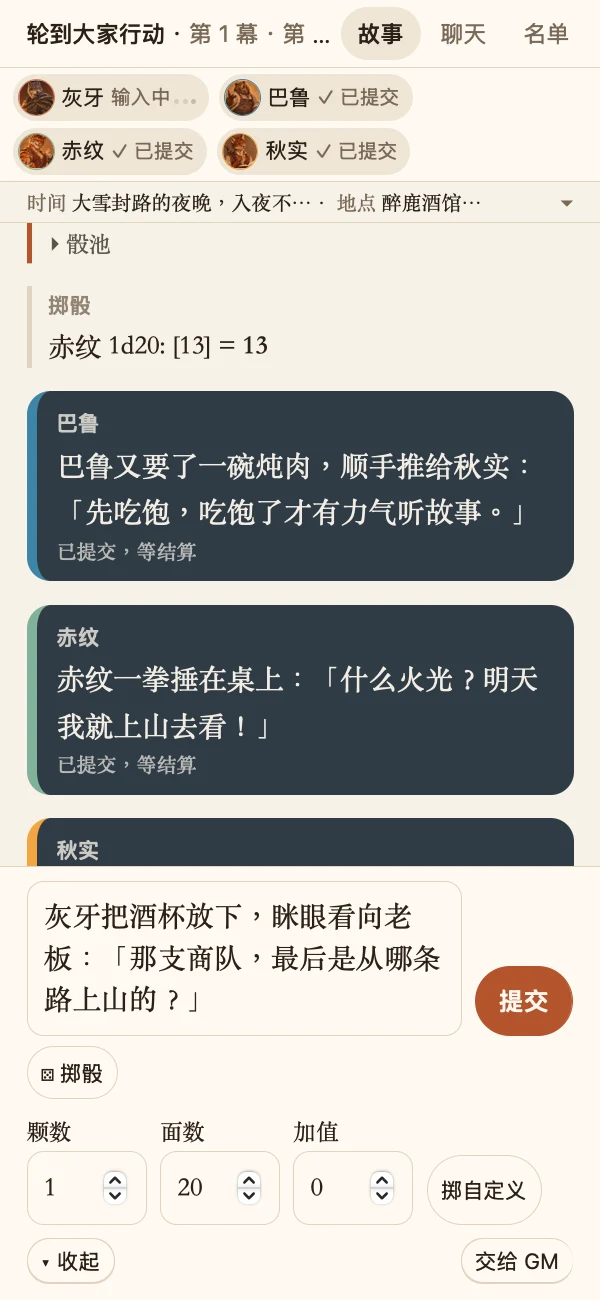
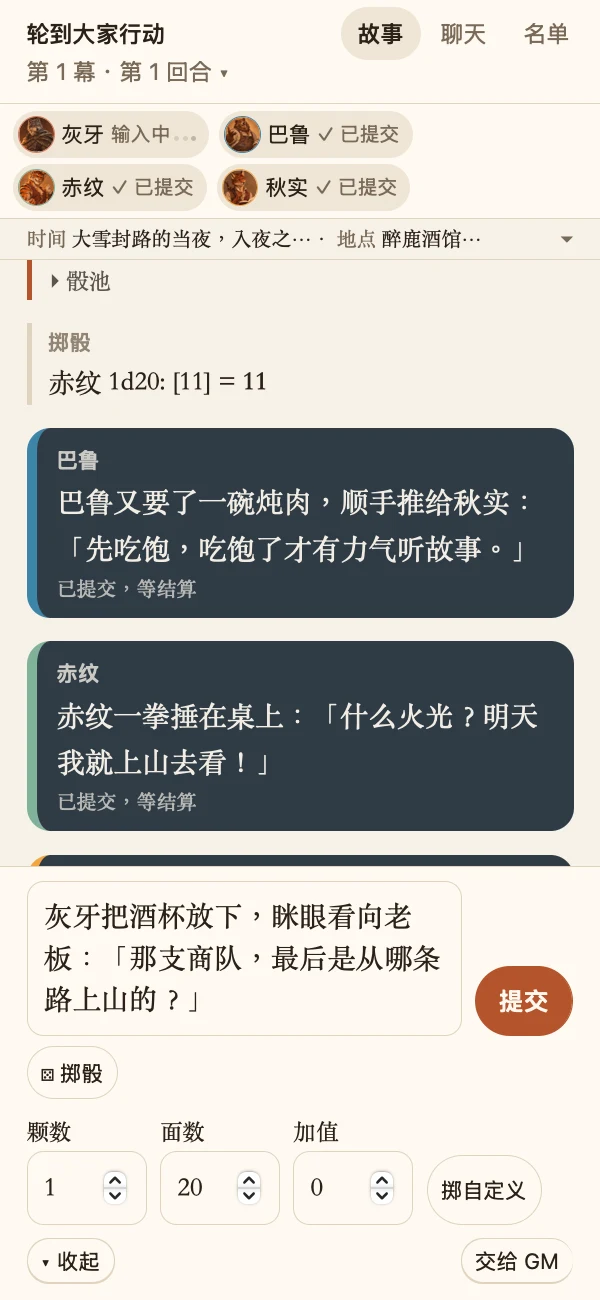
release-9: 版本 0.5.4、CHANGELOG 繁中＋英文、README 補五本規則書與四本新書授權、手機端與說明書「先攻」改「行動順序」、重拍 6 組過時截圖（verify 18 步通過、截圖主線親看；尚未部署與打包）

Changed region(s): [[0.0, 0.0, 0.96, 0.6769], [0.93, 0.1538, 0.96, 0.1846]]

diff --git a/party/src/i18n/ru.ts b/party/src/i18n/ru.ts
@@ -34,7 +34,7 @@ export const ru: PartyMessages = {
   statusClues: "Зацепки",
   statusHp: "ОЗ",
   statusConditions: "Состояния",
-  statusInitiative: "Инициатива",
+  statusInitiative: "Порядок ходов",
   statusFoes: "Враги",
   statusTurn: "Ход: {name}",
   statusInCombat: "Идёт бой",

diff --git a/party/src/i18n/ja.ts b/party/src/i18n/ja.ts
@@ -35,7 +35,7 @@ export const ja: PartyMessages = {
   statusClues: "手がかり",
   statusHp: "HP",
   statusConditions: "状態異常",
-  statusInitiative: "イニシアチブ",
+  statusInitiative: "行動順",
   statusFoes: "敵",
   statusTurn: "{name} の番",
   statusInCombat: "戦闘中",

diff --git a/party/src/i18n/pt-BR.ts b/party/src/i18n/pt-BR.ts
@@ -35,7 +35,7 @@ export const ptBR: PartyMessages = {
   statusClues: "Pistas",
   statusHp: "PV",
   statusConditions: "Condições",
-  statusInitiative: "Iniciativa",
+  statusInitiative: "Ordem dos turnos",
   statusFoes: "Inimigos",
   statusTurn: "Vez de {name}",
   statusInCombat: "Em combate",

diff --git a/party/src/i18n/es.ts b/party/src/i18n/es.ts
@@ -35,7 +35,7 @@ export const es: PartyMessages = {
   statusClues: "Pistas",
   statusHp: "PV",
   statusConditions: "Condiciones",
-  statusInitiative: "Iniciativa",
+  statusInitiative: "Orden de turnos",
   statusFoes: "Enemigos",
   statusTurn: "Turno de {name}",
   statusInCombat: "En combate",

diff --git a/party/src/i18n/fr.ts b/party/src/i18n/fr.ts
@@ -35,7 +35,7 @@ export const fr: PartyMessages = {
   statusClues: "Indices",
   statusHp: "PV",
   statusConditions: "États",
-  statusInitiative: "Initiative",
+  statusInitiative: "Ordre des tours",
   statusFoes: "Ennemis",
   statusTurn: "Au tour de {name}",
   statusInCombat: "En combat",

diff --git a/party/src/i18n/de.ts b/party/src/i18n/de.ts
@@ -35,7 +35,7 @@ export const de: PartyMessages = {
   statusClues: "Hinweise",
   statusHp: "TP",
   statusConditions: "Zustände",
-  statusInitiative: "Initiative",
+  statusInitiative: "Zugreihenfolge",
   statusFoes: "Gegner",
   statusTurn: "{name} ist dran",
   statusInCombat: "Im Kampf",

diff --git a/party/src/i18n/zh-CN.ts b/party/src/i18n/zh-CN.ts
@@ -102,7 +102,7 @@ export const zhCN: PartyMessages = {
   statusClues: "线索",
   statusHp: "HP",
   statusConditions: "状态效果",
-  statusInitiative: "先攻",
+  statusInitiative: "行动顺序",
   statusFoes: "敌人",
   statusTurn: "轮到 {name}",
   statusInCombat: "战斗中",

diff --git a/party/src/i18n/ko.ts b/party/src/i18n/ko.ts
@@ -35,7 +35,7 @@ export const ko: PartyMessages = {
   statusClues: "단서",
   statusHp: "HP",
   statusConditions: "상태 이상",
-  statusInitiative: "우선권",
+  statusInitiative: "행동 순서",
   statusFoes: "적",
   statusTurn: "{name} 차례",
   statusInCombat: "전투 중",

diff --git a/party/src/i18n/en.ts b/party/src/i18n/en.ts
@@ -103,7 +103,7 @@ export const en: PartyMessages = {
   statusClues: "Clues",
   statusHp: "HP",
   statusConditions: "Conditions",
-  statusInitiative: "Initiative",
+  statusInitiative: "Turn order",
   statusFoes: "Foes",
   statusTurn: "{name}'s turn",
   statusInCombat: "In combat",

diff --git a/party/src/i18n/zh-TW.ts b/party/src/i18n/zh-TW.ts
@@ -103,7 +103,7 @@ export const zhTW = {
   statusClues: "線索",
   statusHp: "HP",
   statusConditions: "狀態效果",
-  statusInitiative: "先攻",
+  statusInitiative: "行動順序",
   statusFoes: "敵人",
   statusTurn: "輪到 {name}",
   statusInCombat: "戰鬥中",

diff --git a/CHANGELOG.md b/CHANGELOG.md
@@ -4,6 +4,171 @@
 
 ## [Unreleased]
 
+## [0.5.4] — 2026-11-15
+
+
+### 這一版有什麼
+跑團（到桌設定開「擲骰」才有）：
+- **內建規則書變五本**：除了原本的 D&D 第五版，新增 Dungeon World、Cairn、Basic Roleplaying（BRP）和 Pathfinder 第二版（Remaster）。一桌用一套，可以一鍵換成另一套。
+- **加了規則書，第一回合就照那套玩**：怎麼擲骰、怎麼算成敗、開戰誰先動，GM 一開始就照你選的那套裁決，不用等你先提到規則名詞。
+- **戰鬥面板更好讀**：HP 旁的提醒換到下一行，不再擠成一直排。手改 HP 要寫成「現值/上限」，格式不對會當場提醒，不會存進去。HP 歸 0 的敵人會自動移出行動順序。
+- **「先攻」改叫「行動順序」**，十種語言一起改。
+- **骰子提醒更準**：GM 照點數高低排著寫骰子時不再誤報「跳號」；骰池收起來時也看得到有幾顆對不上；骰鈕不會停在 GM 回頭提到的舊算式。
+- 規則書不再被不相干的句子帶出來（例如「毒舌」不會帶出中毒規則）。
+
+視覺小說：
+- **Grok 也能畫立繪**：有 Grok 訂閱的話，可以選它當立繪來源。
+- **自己指定畫風**：立繪和背景可以填「這張桌的畫風」，例如像素風。
+- **AI 不肯畫時會說清楚**：會明講哪幾張被拒絕，讓你選改畫風、「這次不帶我的畫風重試」或換立繪來源；不再自己默默重試。
+- **立繪邊緣更乾淨**：深色背景上，髮梢不再有一圈淺色的邊。
+- **開桌更穩**：AI 沒寫出開場白時不會開出一張空桌，會停在原地讓你再試一次。開桌精靈的開始鈕固定在畫面底部。
+- **標題畫面固定播主題曲**；配樂不再換得那麼頻繁。
+- **匯出作品包**：還沒走到結局的桌，按匯出會馬上告訴你還不能匯出；作品包會帶上主角的一句話介紹。
+- 遊戲選單的「更多…」可以直接打開劇本，回來時立繪不會消失；劇本改到一半切回去會先問你要不要存。
+- 對白和旁白裡的 `<br>` 會正常換行，不再照字面顯示。
+
+多人房間：
+- **手機打到一半不怕切頁**：在故事頁打字打到一半，切去聊天或名單再回來，字還在。
+- **回合數好懂了**：現在顯示「這一幕的第幾回合」，房主收回上一回合或讓 GM 插話都不會跳號；手機標頭的回合數不再被截掉。
+- **擲骰鈕只給被點名的人**：GM 點名別的角色擲骰時，你的骰鈕不會變成那一擲。
+- GM 旁白裡的換行在手機上正常顯示。
+- 電腦上的房主：「⋯」選單可以按 Esc 或點旁邊收起，不再蓋住「換幕」；GM 旁白選單不再壓到左邊的角色欄。
+- 規則指南的「加入」鈕直接帶你到世界設定。
+
+其他：
+- **跳過開場白可以回頭選**：匯入卡片時跳過了開場白，只要還沒開始玩，對話區有「選擇開場白」可以補選。
+- AI 幫忙整理過的卡（重構桌），右側欄不再重複列出「地點／在場人物」。
+- 法、德、西、葡四種語言的「更新」「重試」按鈕改成當地慣用的說法；英文等五種語言的張數會分單複數。
+- 一項安全性更新。
+
+### 下載
+[![網頁版-點開就玩](https://img.shields.io/badge/網頁版-點開就玩-E8A33D?style=for-the-badge)](https://table-tavern.pages.dev)
[1 lines of base64/hex data omitted]
+[![下載-macOS](https://img.shields.io/badge/下載-macOS-000000?style=for-the-badge&logo=apple&logoColor=white)](https://github.com/TaoGongSun/Table-Tavern/releases/download/v0.5.4/TableTavern-macOS.dmg)
+
+- 網頁版：<https://table-tavern.pages.dev>，點開就玩，不用安裝。
+- [Windows（64 位元）](https://github.com/TaoGongSun/Table-Tavern/releases/download/v0.5.4/TableTavern-Windows-Setup.exe)
+- [macOS（僅 Apple Silicon，M 系列晶片；不支援 Intel Mac）](https://github.com/TaoGongSun/Table-Tavern/releases/download/v0.5.4/TableTavern-macOS.dmg)
+- 下方其他檔案是 App 內更新用的，不用下載。
+
+### 你的資料去哪裡
+- **存在你電腦**：
+  - 桌、角色卡、對話紀錄是「文件/TableTavern/」裡的純文字檔。
+  - 設定與 API 金鑰存在系統的應用程式設定資料夾（未加密的設定檔；macOS 上限本人讀寫）。
+  - 轉換格式前的桌備份放在「文件/TableTavern/」裡的隱藏資料夾；更新下載的安裝包存在本機 App 資料夾。
+  - 透過 Codex（ChatGPT 的命令列工具）、Gemini 命令列工具玩時，對話紀錄存在 App 自己的設定資料夾（Grok 本來就是），不混進你在終端機的紀錄；登入沿用你終端機那份。
+- **對話送去哪**：從你的電腦直接送到你選的 AI 服務——OpenRouter、你自己填的 API 網址，或你安裝的官方命令列工具（由那支工具送到該公司）。送出的內容包含角色卡、世界設定、世界書條目、對話紀錄和你的輸入。AI 服務怎麼處理這些資料，以該服務的條款為準。
+- **OpenRouter**：授權在瀏覽器的 openrouter.ai 完成，換到的金鑰只存本機。App 也會向 OpenRouter 查模型清單、排行與金鑰剩餘額度。
+- **矽基流動（簡體中文介面的預設）**：金鑰只存本機；對話直接送到 api.siliconflow.cn。只用它的免費模型清單，不會自動換到付費模型。
+- **生圖**：送到你選的生圖來源（OpenRouter、你自己填的 API 網址，或命令列工具）；回傳網址的圖從該網址下載。
+- **視覺小說的音樂與音效**：背景音樂的曲目清單與音檔從 incompetech.com 下載；填了 Freesound 金鑰時，GM 寫的音效描述會送到 freesound.org 搜尋並下載音效。下載後存在這張桌裡。這些網站會看到你的 IP。
+- **檢查更新**：開 App 時與每 24 小時向 GitHub 查一次新版，下載更新與回退檔也從 GitHub。GitHub 會看到你的 IP。設定裡可以關掉自動檢查。
+- **卡片自帶的介面**：有些卡的介面會從卡作者指定的網站載入字型、圖片或程式（例如 jsDelivr），那些網站會看到你的 IP。卡片介面在隔離框裡執行，裡面的外部腳本讀不到你的金鑰，但讀得到這桌的聊天內容與卡片變數。
+- **一鍵安裝與更新命令列工具**：從該公司官網下載官方安裝腳本。Claude、Codex、Grok 優先裝 App 測過的版本（下載不到就改裝最新版），Gemini 一律裝最新版；App 呼叫時會關掉工具的自動更新（你在終端機用不受影響）。
+- **開房間時**：只有開房間才會用到作者架的房間伺服器（tt-room.pirahus.com）；不開房間就不會連到它。
+  - 會經過這台伺服器、並保存在上面的：房間裡的故事、大家的暱稱、公開的角色資料和頭像、每回合的行動與擲骰結果、狀態欄內容（角色現況、持有物、目標、承諾與線索、HP、狀態效果、行動順序與敵人）、桌邊聊天（公開與私訊，只送給房間成員）。
+  - 只經過、不保存的：角色卡的秘密設定、上傳的原圖（原圖最多暫留 10 分鐘）。
+  - 房間 30 天沒人用就會清掉；完整劇情一直都在房主的電腦上。
+- **沒有**：使用統計、廣告追蹤。單人遊玩不經過作者的伺服器。
+
+### 安裝時被系統擋下？
+桌面版還沒買程式碼簽章憑證、也還沒送 Apple 公證，所以系統會跳警告。請只從這個 GitHub 發佈頁下載。
+
+**Windows**
+1. 瀏覽器可能說這個檔案「不常下載」：Edge 點「…」→「保留」→「顯示更多」→「仍要保留」；Chrome 點「保留」。
+2. 執行安裝檔，出現「Windows 已保護您的電腦」：點「其他資訊」→「仍要執行」。
+3. 如果出現的是「智慧型應用程式控制已封鎖」而且沒有「仍要執行」：你的電腦開著智慧型應用程式控制，它不允許個別放行未簽章的程式，關掉之後要重灌 Windows 才能再開。不建議為此關閉——請先用網頁版，等之後的簽章版。
+4. 少數 Windows 10 舊電腦沒有 WebView2，安裝檔會自動從微軟下載安裝。
+
+**macOS**
+1. 打開 DMG，把 Table Tavern 拖進「應用程式」。
+2. 雙擊開啟。出現「Apple 無法驗證『Table Tavern』是否包含可能危害 Mac 或侵犯隱私的惡意軟體」：按「完成」（不要按「丟到垃圾桶」）。
+3. 打開「系統設定 → 隱私權與安全性」，捲到最下面「安全性」，按「仍要打開」，用密碼或 Touch ID 確認，再按一次「打開」。這個按鈕要先試開過一次才會出現。
+4. 只要做一次，之後正常雙擊就能開。
+
+---
+
+**English**
+
+### What's new
+Tabletop play (turn on "Roll dice" in the table settings):
+- **Five built-in rulebooks**: besides D&D 5th edition, you can now pick Dungeon World, Cairn, Basic Roleplaying (BRP) or Pathfinder 2nd edition (Remaster). One system per table, and you can switch with one click.
+- **The rulebook applies from round one**: how to roll, how success is decided and who acts first in a fight all follow the system you picked from the start — you no longer have to mention a rules term first.
+- **A clearer combat panel**: the notes next to HP move to their own line instead of being squeezed into a narrow column. HP you type by hand must look like "current/max"; anything else gets a hint on the spot and isn't saved. Enemies at 0 HP leave the turn order automatically.
+- **"Initiative" is now "Turn order"** in all ten languages.
+- **More accurate dice warnings**: no false "skipped a die" warning when the GM lists dice from high to low; the collapsed dice pool shows how many dice don't match; the dice button no longer sticks to an old formula the GM merely mentioned again.
+- Rulebook entries are no longer pulled in by unrelated sentences.
+
+Visual novel:
+- **Grok can draw sprites**: with a Grok subscription you can pick it as the sprite source.
+- **Set your own art style**: sprites and backgrounds accept an "art style for this table", such as pixel art.
+- **Clear message when the AI declines to draw**: it says which pictures were declined and lets you edit your style, retry once without it, or switch the sprite source. It no longer retries silently.
+- **Cleaner sprite edges**: no pale outline around hair on dark backgrounds.
+- **Steadier table setup**: if the AI doesn't write an opening, you stay on the same step and can try again instead of getting an empty table. The start button in the setup wizard stays at the bottom of the screen.
+- **The title screen always plays the theme song**, and the background music changes less often.
+- **Exporting a work pack**: a table that hasn't reached an ending tells you right away that it can't be exported yet; the pack now carries the main character's one-line introduction.
+- "More…" in the game menu opens the script directly, and sprites no longer disappear when you come back; leaving the script with unsaved edits asks first.
+- `<br>` in dialogue and narration now shows as a line break.
+
+Multiplayer rooms:
+- **Half-typed text survives switching tabs on the phone**: leave the Story tab for Chat or Players and come back — your text is still there.
+- **Round numbers make sense**: the number is now "which round of this scene"; taking back a round or letting the GM narrate no longer skips numbers, and the number is no longer cut off in the phone header.
+- **The dice button is only for whoever was called**: when the GM asks another character to roll, your button doesn't turn into that roll.
+- Line breaks in GM narration show correctly on the phone.
+- For the host on desktop: the "⋯" menu closes with Esc or a click outside and no longer covers "Change scene"; the GM narration menu no longer overlaps the character column.
+- The "Add" button in the rules guide takes you straight to World settings.
+
+Other:
+- **Pick an opening later**: if you skipped the opening when importing a card, a "Choose an opening" entry appears in the chat area as long as you haven't started playing.
+- On tables with an AI-tidied card, the right panel no longer lists "Location / Present" twice.
+- The "Update" and "Retry" buttons use more natural wording in French, German, Spanish and Portuguese; counts use singular and plural correctly in five languages.
+- One security update.
+
+### Downloads
+[![Play-in your browser](https://img.shields.io/badge/Play-in%20your%20browser-E8A33D?style=for-the-badge)](https://table-tavern.pages.dev)
[1 lines of base64/hex data omitted]
+[![Download-macOS](https://img.shields.io/badge/Download-macOS-000000?style=for-the-badge&logo=apple&logoColor=white)](https://github.com/TaoGongSun/Table-Tavern/releases/download/v0.5.4/TableTavern-macOS.dmg)
+
+- Web version: <https://table-tavern.pages.dev> — play right in your browser, nothing to install.
+- [Windows (64-bit)](https://github.com/TaoGongSun/Table-Tavern/releases/download/v0.5.4/TableTavern-Windows-Setup.exe)
+- [macOS (Apple Silicon / M-series only; Intel Macs are not supported)](https://github.com/TaoGongSun/Table-Tavern/releases/download/v0.5.4/TableTavern-macOS.dmg)
+- The other files below are used by in-app updates; you don't need them.
+
+### Where your data goes
+- **On your computer**:
+  - Tables, character cards and chat logs are plain-text files in "Documents/TableTavern/".
+  - Settings and API keys live in the system's app settings folder (an unencrypted settings file; on macOS readable only by you).
+  - Table backups made before a format conversion are kept in hidden folders inside "Documents/TableTavern/"; downloaded update installers are kept in the app's local data folder.
+  - When you play through the Codex (ChatGPT's command-line tool) or Gemini command-line tool, the app keeps those chat logs in its own settings folder (Grok already worked this way), separate from your terminal history; sign-in is shared with your terminal.
+- **Where chats are sent**: straight from your computer to the AI service you choose: OpenRouter, an API URL you enter yourself, or an official command-line tool you installed (which sends to its own company). What gets sent includes character cards, world settings, World Book entries, the chat log and your input. How the AI service handles it is governed by that service's terms.
+- **OpenRouter**: authorization happens on openrouter.ai in your browser, and the resulting key is stored only on your computer. The app also asks OpenRouter for the model list, rankings and your key's remaining credit.
+- **SiliconFlow (default for the Simplified Chinese interface)**: the key is stored only on your computer; chats go straight to api.siliconflow.cn. Only its free models are used; the app never switches to a paid one on its own.
+- **Image generation**: requests go to the image source you choose (OpenRouter, an API URL you enter yourself, or a command-line tool); images returned as a URL are downloaded from that URL.
+- **Visual novel music and sound effects**: the music list and tracks are downloaded from incompetech.com. If you enter a Freesound key, the GM's sound descriptions are sent to freesound.org to search and download effects. Downloads are stored with the table. These sites see your IP address.
+- **Update checks**: on launch and every 24 hours the app asks GitHub for a new version, and update and rollback files are downloaded from GitHub. GitHub sees your IP address. You can turn automatic checks off in Settings.
+- **Card interfaces**: some cards' interfaces load fonts, images or scripts from sites chosen by the card author (for example jsDelivr), and those sites see your IP address. Card interfaces run in an isolated frame; external scripts inside them cannot read your keys, but they can read this table's chat content and card variables.
+- **One-click CLI install and update**: downloads the official install script from that company's website. For Claude, Codex (ChatGPT's tool) and Grok the app prefers the version it was tested with (falling back to the latest if that can't be downloaded); Gemini always gets the latest. The app turns off the tool's auto-update when the app runs it (your own terminal use is unaffected).
+- **When you open a room**: the author's room server (tt-room.pirahus.com) is used only when you open a room; otherwise the app never connects to it.
+  - Passes through this server and is kept there: the room's story, everyone's nicknames, public character info and portraits, each round's actions and dice rolls, status panel contents (character condition, belongings, goals, promises and leads, HP, conditions, turn order and enemies), and table chat (public and private messages, delivered only to room members).
+  - Only passes through, not kept: character cards' secret settings and uploaded original images (originals stay at most 10 minutes).
+  - A room nobody has used for 30 days is deleted; the full story always stays on the host's computer.
+- **None of these**: no usage statistics, no ad tracking. Solo play never goes through an author-run server.
+
+### Blocked by your system during install?
+The desktop app isn't code-signed or notarized by Apple yet, so your system will warn you. Only download it from this GitHub release page.
+
+**Windows**
+1. Your browser may say the file "isn't commonly downloaded": in Edge, click "…" → "Keep" → "Show more" → "Keep anyway"; in Chrome, click "Keep".
+2. Run the installer. If you see "Windows protected your PC", click "More info" → "Run anyway".
+3. If instead you see "Smart App Control blocked" with no "Run anyway": Smart App Control is on, and it doesn't allow exceptions for unsigned apps. Once turned off, it can only be turned back on by reinstalling Windows. We don't recommend turning it off for this; use the web version for now and wait for a signed release.
+4. A few older Windows 10 PCs lack WebView2; the installer downloads it from Microsoft automatically.
+
+**macOS**
+1. Open the DMG and drag Table Tavern into Applications.
+2. Double-click to open it. When you see "Apple could not verify 'Table Tavern' is free of malware that may harm your Mac or compromise your privacy", click "Done" (not "Move to Trash").
+3. Open System Settings → Privacy & Security, scroll down to Security, click "Open Anyway", confirm with your password or Touch ID, then click "Open". The button only appears after you've tried to open the app once.
+4. You only need to do this once; after that it opens normally.
+
 ## [0.5.3] — 2026-11-09
 
 ### 這一版有什麼

diff --git a/README.md b/README.md
@@ -39,7 +39,7 @@ When a new version comes out, the app lets you know and updates in one click; if
 ## Why it's fun — and easy on your budget
 
 - **Play with friends online**: open a room on your computer and friends join from their phone's browser through an invite link — no install. Everyone controls their own character and, with dice on, rolls on their own phone; the GM runs on the host's AI, and the host keeps playing on the computer.
-- **Turn on dice for tabletop play**: the app really rolls the dice — the AI doesn't make up numbers — and you can see how each one is used (d20#1 in the story means the first d20 in the pool); when the GM calls for a roll, one tap rolls it. On tables whose cards have no status panel of their own (including blank and one-line tables), the status panel also tracks HP, conditions, initiative and enemies. You can add the built-in condensed version of the open D&D 5th edition rules (called "5e SRD 5.1" in the app) too.
+- **Turn on dice for tabletop play**: the app really rolls the dice — the AI doesn't make up numbers — and you can see how each one is used (d20#1 in the story means the first d20 in the pool); when the GM calls for a roll, one tap rolls it. On tables whose cards have no status panel of their own (including blank and one-line tables), the status panel also tracks HP, conditions, turn order and enemies. You can add a built-in rulebook and the GM rules by it: D&D 5th edition (called "5e SRD 5.1" in the app), Dungeon World, Cairn, Basic Roleplaying (BRP) or Pathfinder 2nd edition (Remaster) — all condensed versions of open rules.
 - **Visual novel mode**: write one line, click "Start now", and the show begins. The AI writes the script while drawing backgrounds and character sprites and adds background music (for sound effects, get a free Freesound key and enter it). Move the story with choices, with chapters, endings and branches. Export it as a package others can replay.
 - **A status panel even without a card**: on a blank or one-line table, the app still tracks each character's condition and belongings, plus goals, promises and leads. The AI only mentions what changed, so replies are faster and use less quota.
 - **Pick who speaks at multi-character tables**: **Let ○○ reply** appears under the GM's narration, and **Send + reply** sits next to the send button. Cards that provide setting but never speak (places, factions) can be made **stage cards**, so they're never asked to talk.
@@ -88,4 +88,9 @@ cd web && npm install && npm run dev   # web dev mode
 
 [AGPL-3.0-only](LICENSE).
 
-The built-in rulebook includes material from the [SRD 5.1](https://dnd.wizards.com/resources/systems-reference-document) by Wizards of the Coast LLC, licensed under [CC BY 4.0](https://creativecommons.org/licenses/by/4.0/legalcode) and condensed by Table Tavern. This project isn't affiliated with Wizards of the Coast.
+The built-in rulebooks are condensed versions of openly licensed rules, and this project isn't affiliated with any of the publishers. Each book carries a "Source & License" entry in the app with the full source and license text:
+- 5e: material from the [SRD 5.1](https://dnd.wizards.com/resources/systems-reference-document) by Wizards of the Coast LLC, [CC BY 4.0](https://creativecommons.org/licenses/by/4.0/legalcode).
+- Dungeon World: from [Sagelt/Dungeon-World](https://github.com/Sagelt/Dungeon-World), [CC BY 3.0](http://creativecommons.org/licenses/by/3.0/); it includes SRD 5.1 material (CC BY 4.0).
+- Cairn 1e: from the [Cairn SRD](https://github.com/yochaigal/cairn) by Yochai Gal, [CC BY-SA 4.0](https://creativecommons.org/licenses/by-sa/4.0/); this adaptation is released under the same license.
+- BRP: under the ORC License, based on [Basic Roleplaying: Universal Game Engine](https://www.chaosium.com/content/orclicense/BasicRoleplaying-ORC-Content-Document.pdf) © 2024 Chaosium Inc., by Jason Durall and Steve Perrin.
+- PF2 Remaster: under the ORC License, based on Pathfinder Player Core © 2023 Paizo Inc.
